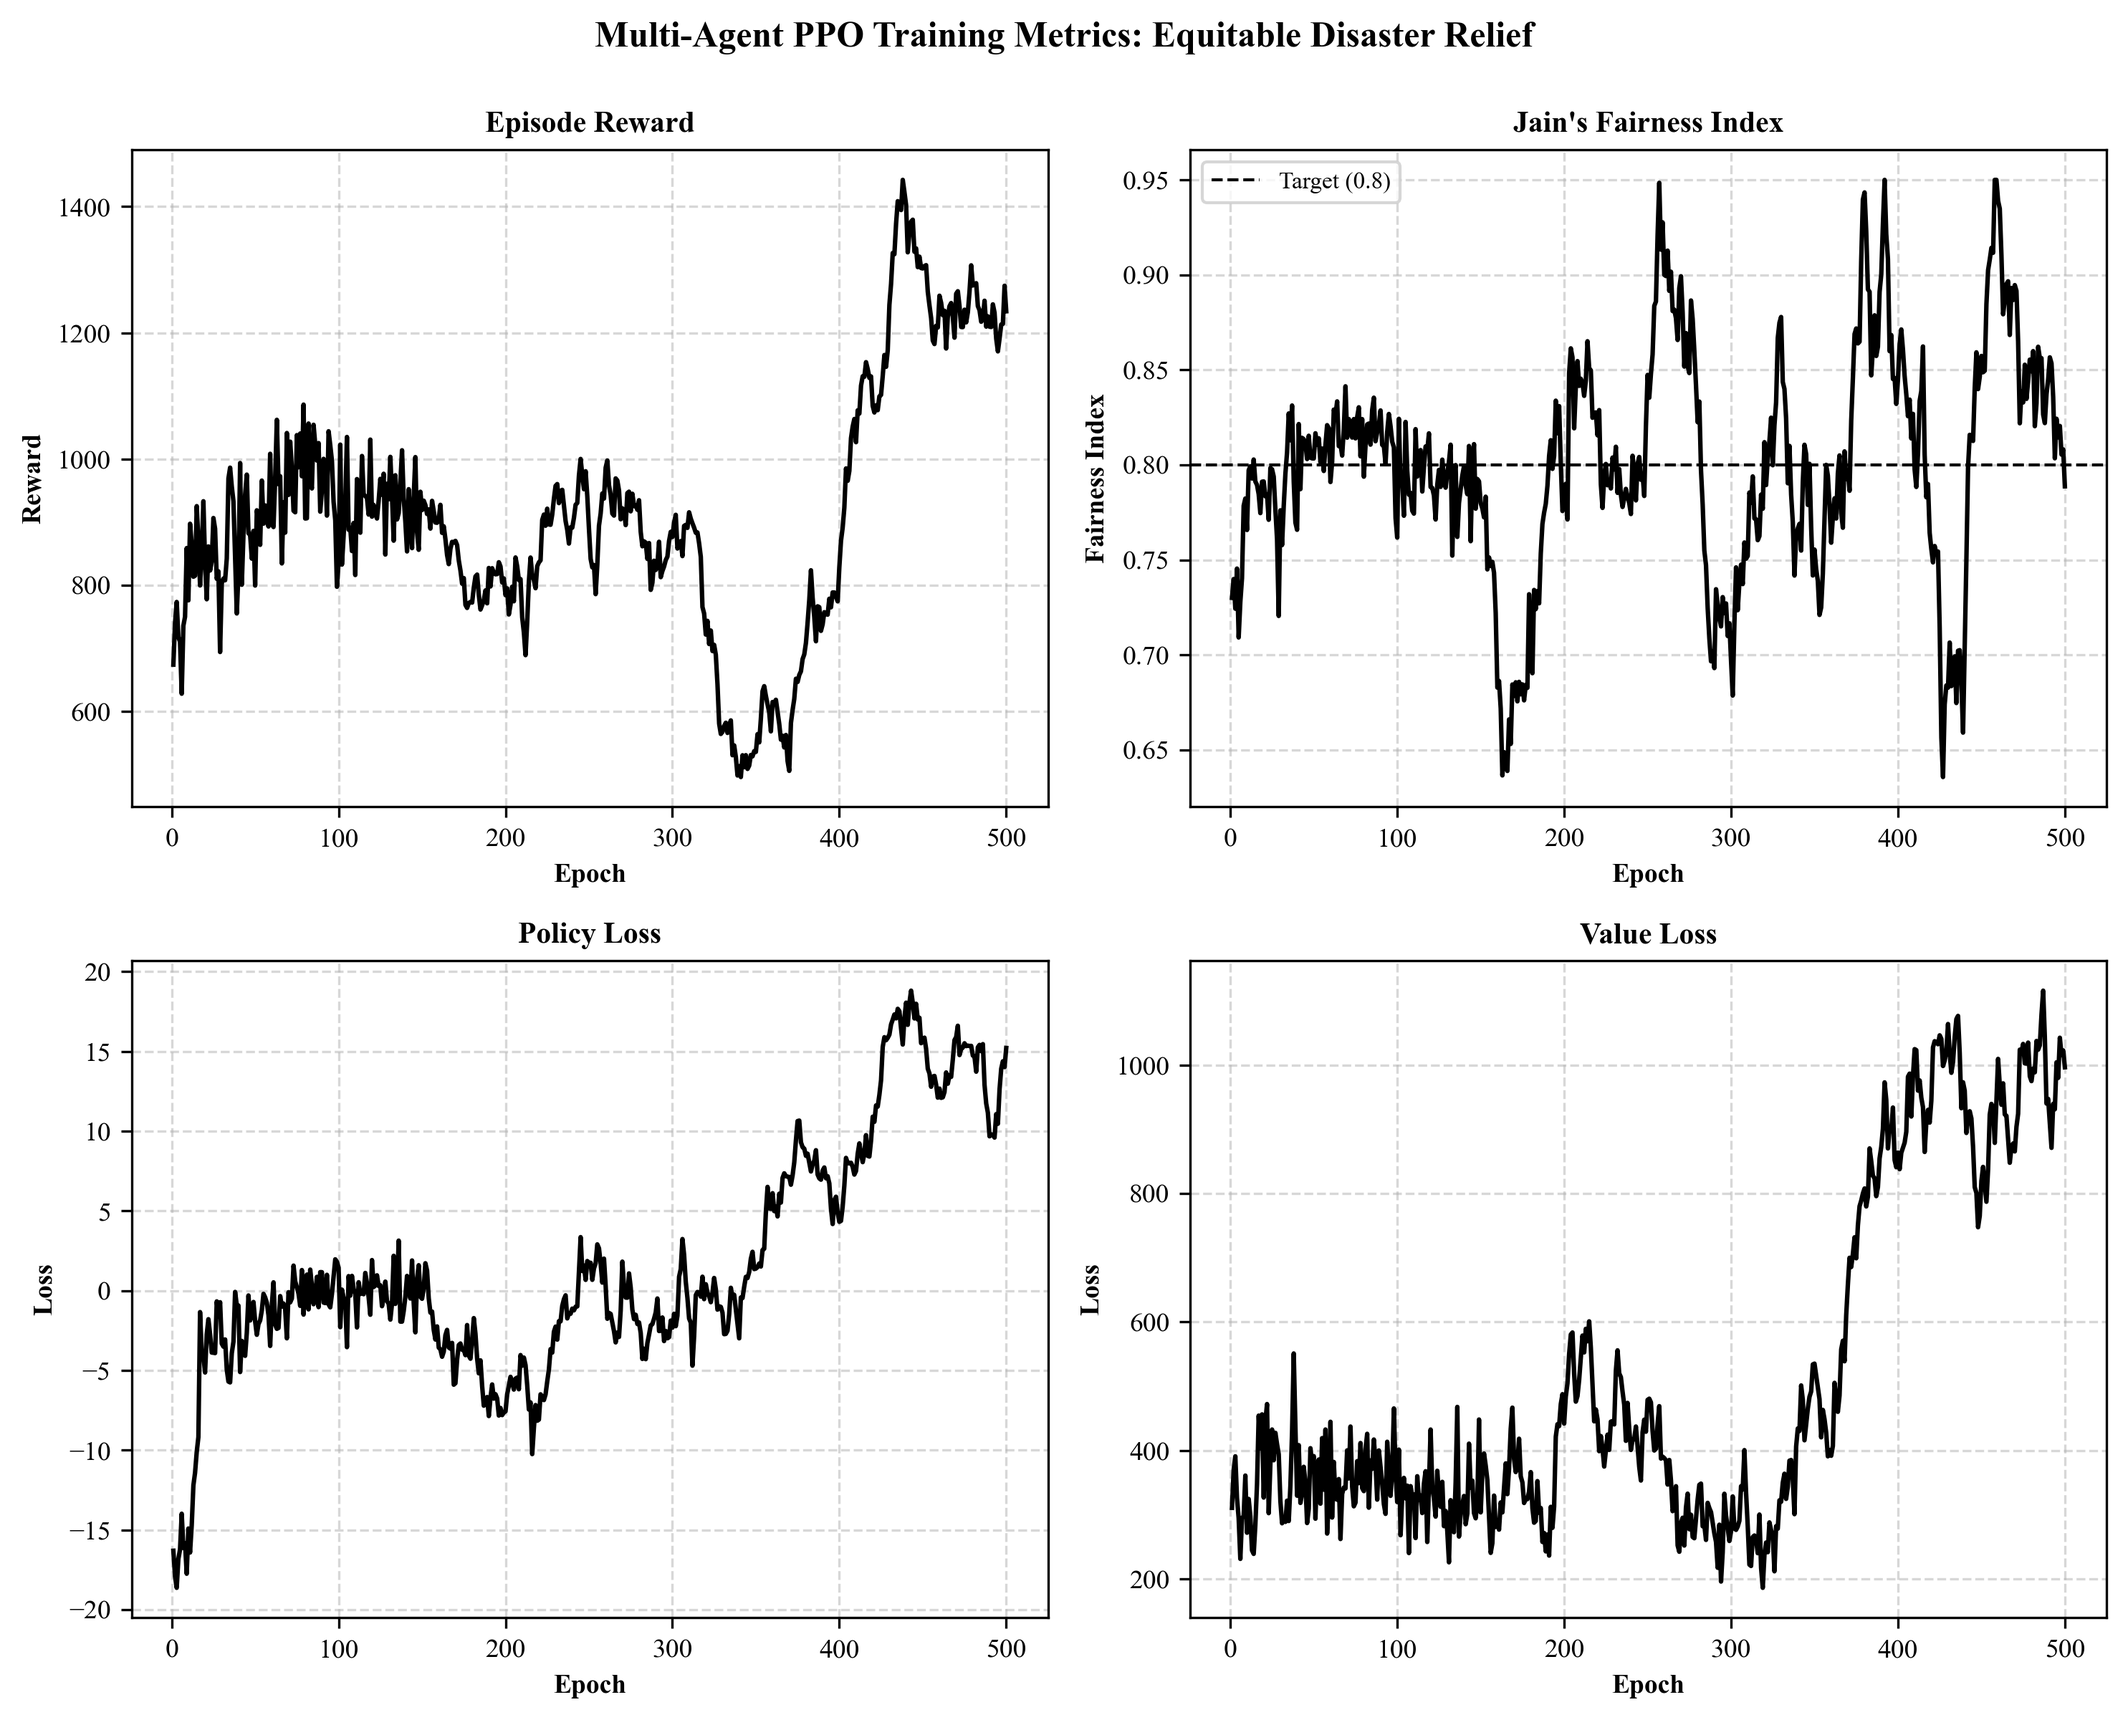
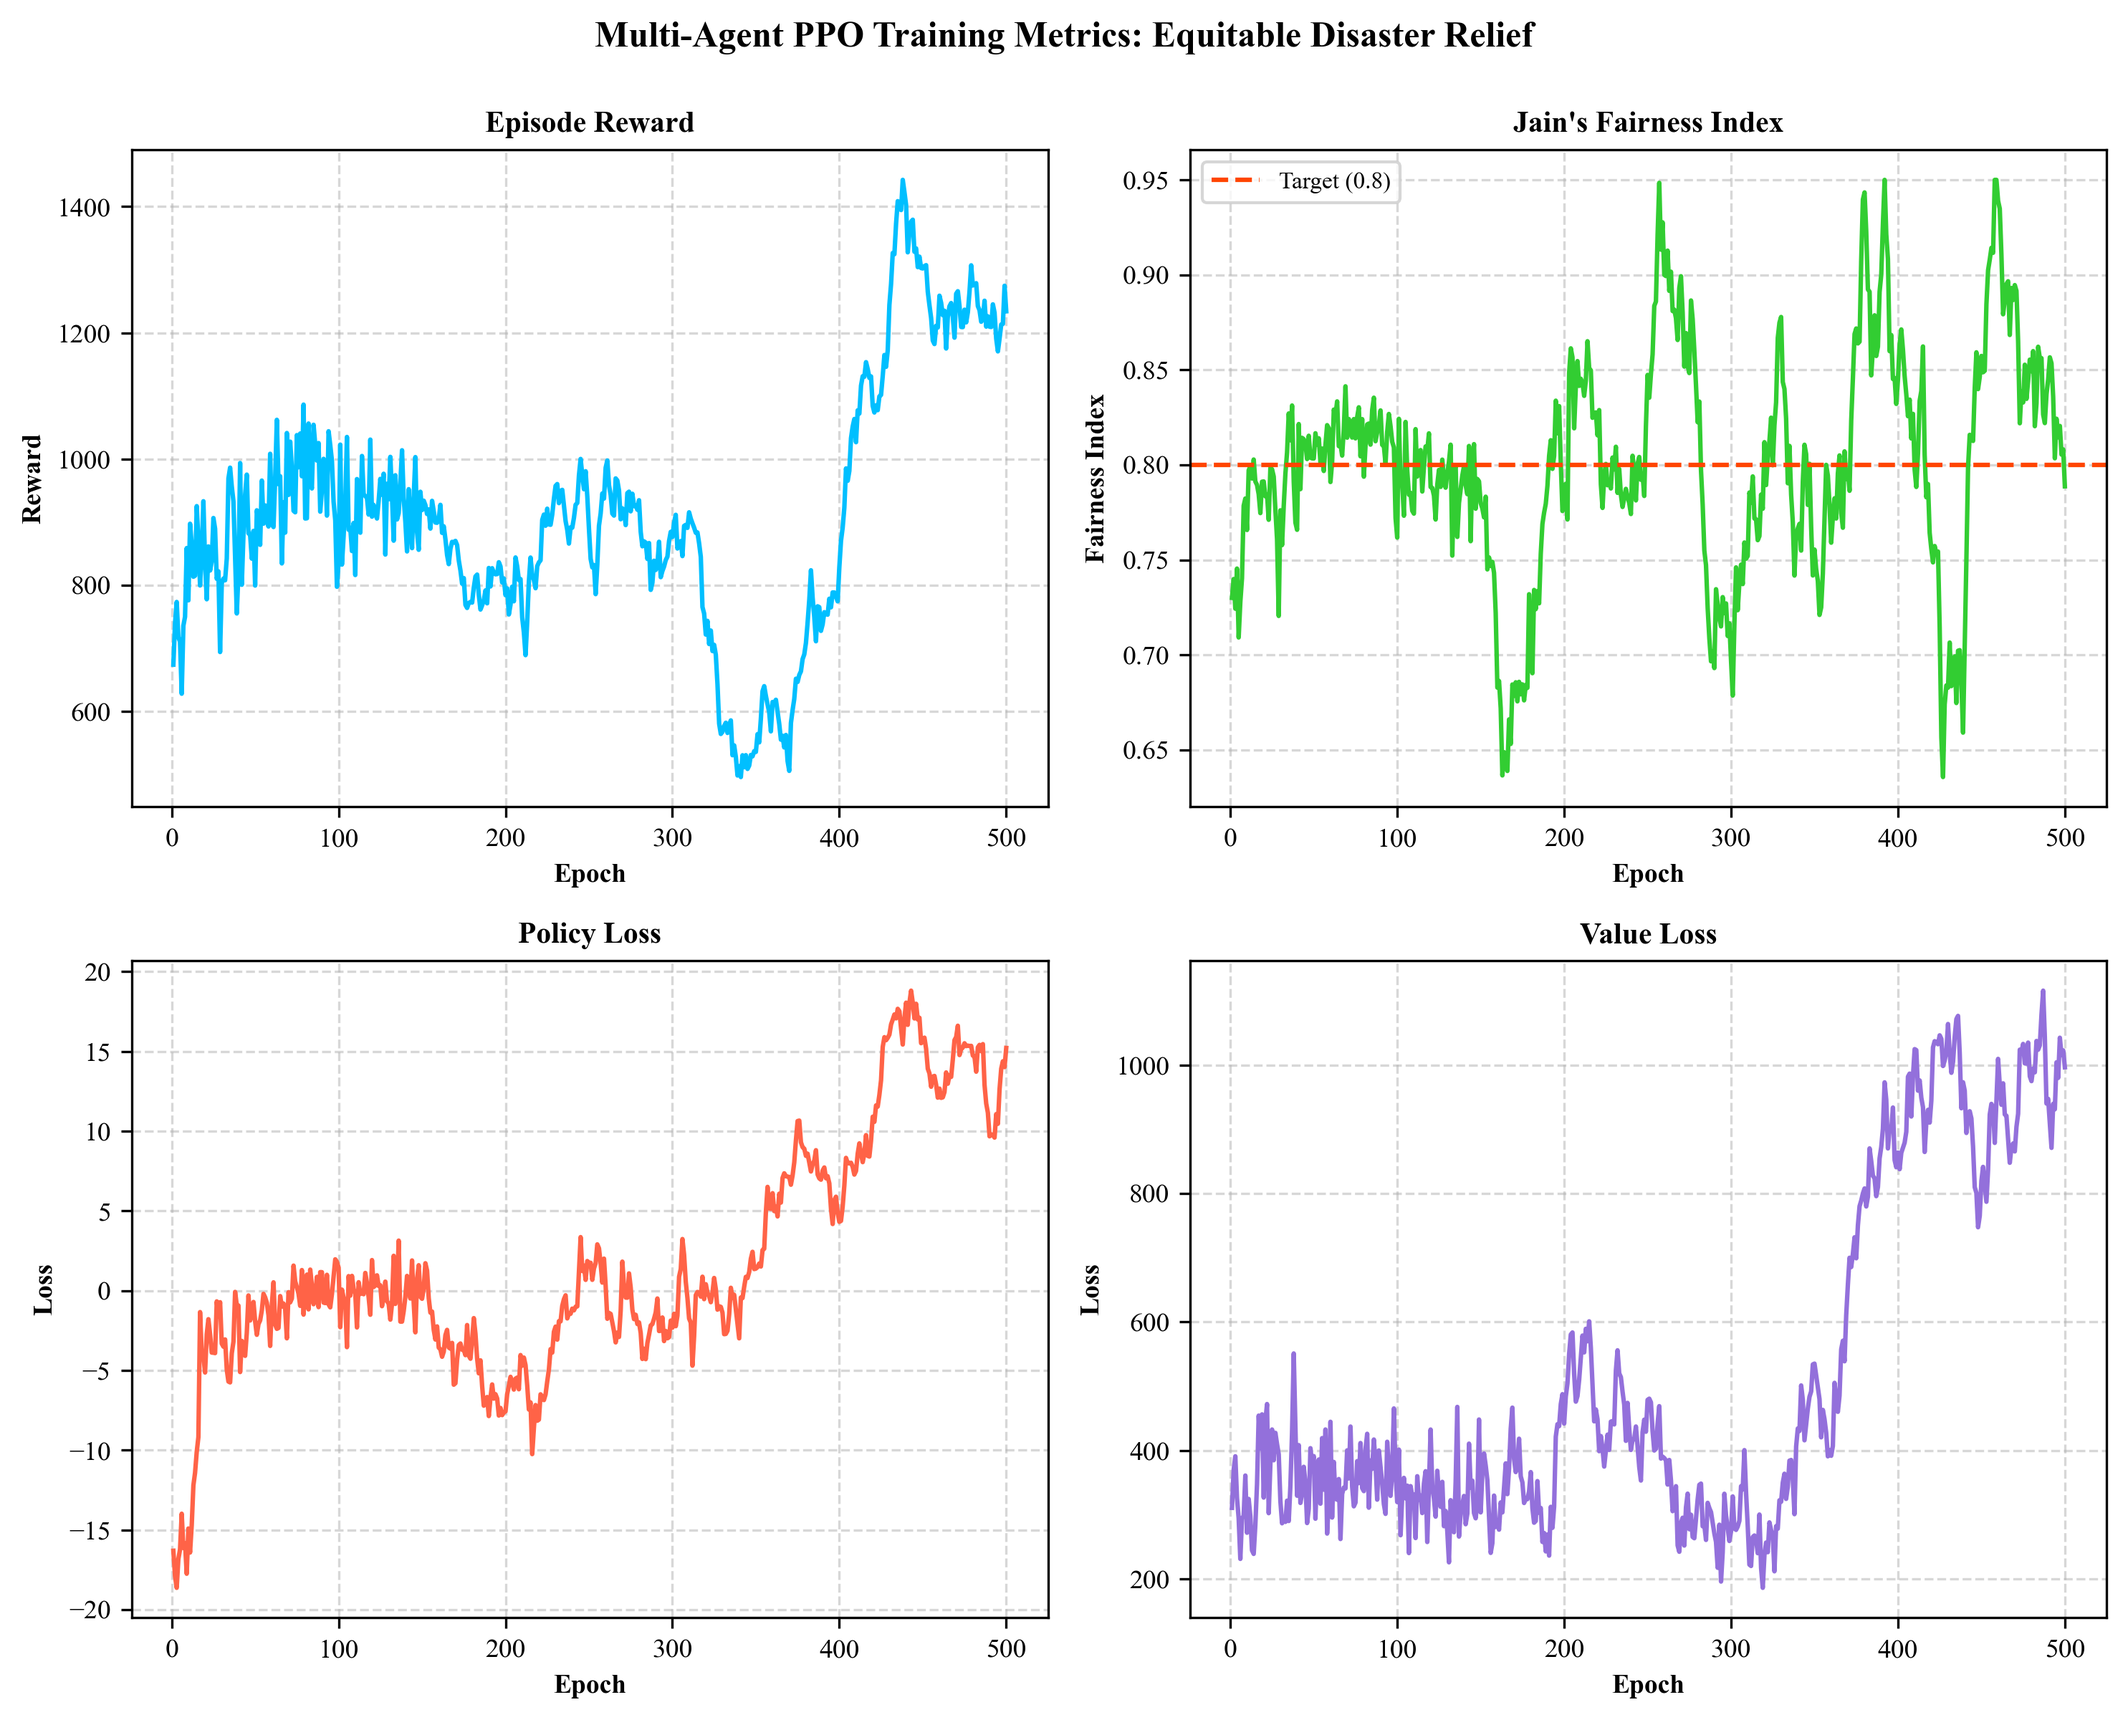
Update graphs with bright vibrant colors for paper submission

diff --git a/generate_ieee_plots.py b/generate_ieee_plots.py
@@ -11,12 +11,12 @@ plt.rcParams['ytick.labelsize'] = 9
 plt.rcParams['axes.labelsize'] = 10
 plt.rcParams['legend.fontsize'] = 8
 
-def save_ieee_plot(data, x_col, y_col, title, ylabel, filename, color='black', target=None):
+def save_ieee_plot(data, x_col, y_col, title, ylabel, filename, color='#1f77b4', target=None, target_color='#d62728'):
     plt.figure(figsize=(5, 4))
     plt.plot(data[x_col], data[y_col], color=color, linewidth=1.5, label=ylabel)
     
     if target is not None:
-        plt.axhline(y=target, color='black', linestyle='--', linewidth=1, label=f'Target ({target})')
+        plt.axhline(y=target, color=target_color, linestyle='--', linewidth=1.5, label=f'Target ({target})')
     
     plt.title(title, fontsize=11, fontweight='bold')
     plt.xlabel('Training Epoch', fontsize=10)
@@ -43,47 +43,52 @@ print("\n--- Generating IEEE-Format Graphs ---\n")
 save_ieee_plot(df_clean, 'epoch', 'mean_episode_reward', 
               'Episode Reward Over Training', 
               'Total Aid Delivered', 
-              'fig_reward.png')
+              'fig_reward.png',
+              color='#00BFFF')
 
 save_ieee_plot(df_clean, 'epoch', 'mean_jain_index', 
               'Equity Distribution Over Training', 
               "Jain's Fairness Index", 
               'fig_jain.png', 
-              target=0.8)
+              target=0.8,
+              color='#32CD32',
+              target_color='#FF4500')
 
 save_ieee_plot(df_clean, 'epoch', 'total_policy_loss', 
               'Policy Loss Convergence', 
               'Policy Loss', 
-              'fig_ploss.png')
+              'fig_ploss.png',
+              color='#FF6347')
 
 save_ieee_plot(df_clean, 'epoch', 'total_value_loss', 
               'Value Loss Convergence', 
               'Value Loss', 
-              'fig_vloss.png')
+              'fig_vloss.png',
+              color='#9370DB')
 
 fig, axes = plt.subplots(2, 2, figsize=(10, 8))
 
-axes[0, 0].plot(df_clean['epoch'], df_clean['mean_episode_reward'], 'black', linewidth=1.5)
+axes[0, 0].plot(df_clean['epoch'], df_clean['mean_episode_reward'], '#00BFFF', linewidth=1.5)
 axes[0, 0].set_title('Episode Reward', fontsize=10, fontweight='bold')
 axes[0, 0].set_xlabel('Epoch', fontsize=9)
 axes[0, 0].set_ylabel('Reward', fontsize=9)
 axes[0, 0].grid(True, linestyle='--', alpha=0.5)
 
-axes[0, 1].plot(df_clean['epoch'], df_clean['mean_jain_index'], 'black', linewidth=1.5)
-axes[0, 1].axhline(y=0.8, color='black', linestyle='--', linewidth=1, label='Target (0.8)')
+axes[0, 1].plot(df_clean['epoch'], df_clean['mean_jain_index'], '#32CD32', linewidth=1.5)
+axes[0, 1].axhline(y=0.8, color='#FF4500', linestyle='--', linewidth=1.5, label='Target (0.8)')
 axes[0, 1].set_title("Jain's Fairness Index", fontsize=10, fontweight='bold')
 axes[0, 1].set_xlabel('Epoch', fontsize=9)
 axes[0, 1].set_ylabel('Fairness Index', fontsize=9)
 axes[0, 1].grid(True, linestyle='--', alpha=0.5)
 axes[0, 1].legend(fontsize=8)
 
-axes[1, 0].plot(df_clean['epoch'], df_clean['total_policy_loss'], 'black', linewidth=1.5)
+axes[1, 0].plot(df_clean['epoch'], df_clean['total_policy_loss'], '#FF6347', linewidth=1.5)
 axes[1, 0].set_title('Policy Loss', fontsize=10, fontweight='bold')
 axes[1, 0].set_xlabel('Epoch', fontsize=9)
 axes[1, 0].set_ylabel('Loss', fontsize=9)
 axes[1, 0].grid(True, linestyle='--', alpha=0.5)
 
-axes[1, 1].plot(df_clean['epoch'], df_clean['total_value_loss'], 'black', linewidth=1.5)
+axes[1, 1].plot(df_clean['epoch'], df_clean['total_value_loss'], '#9370DB', linewidth=1.5)
 axes[1, 1].set_title('Value Loss', fontsize=10, fontweight='bold')
 axes[1, 1].set_xlabel('Epoch', fontsize=9)
 axes[1, 1].set_ylabel('Loss', fontsize=9)
